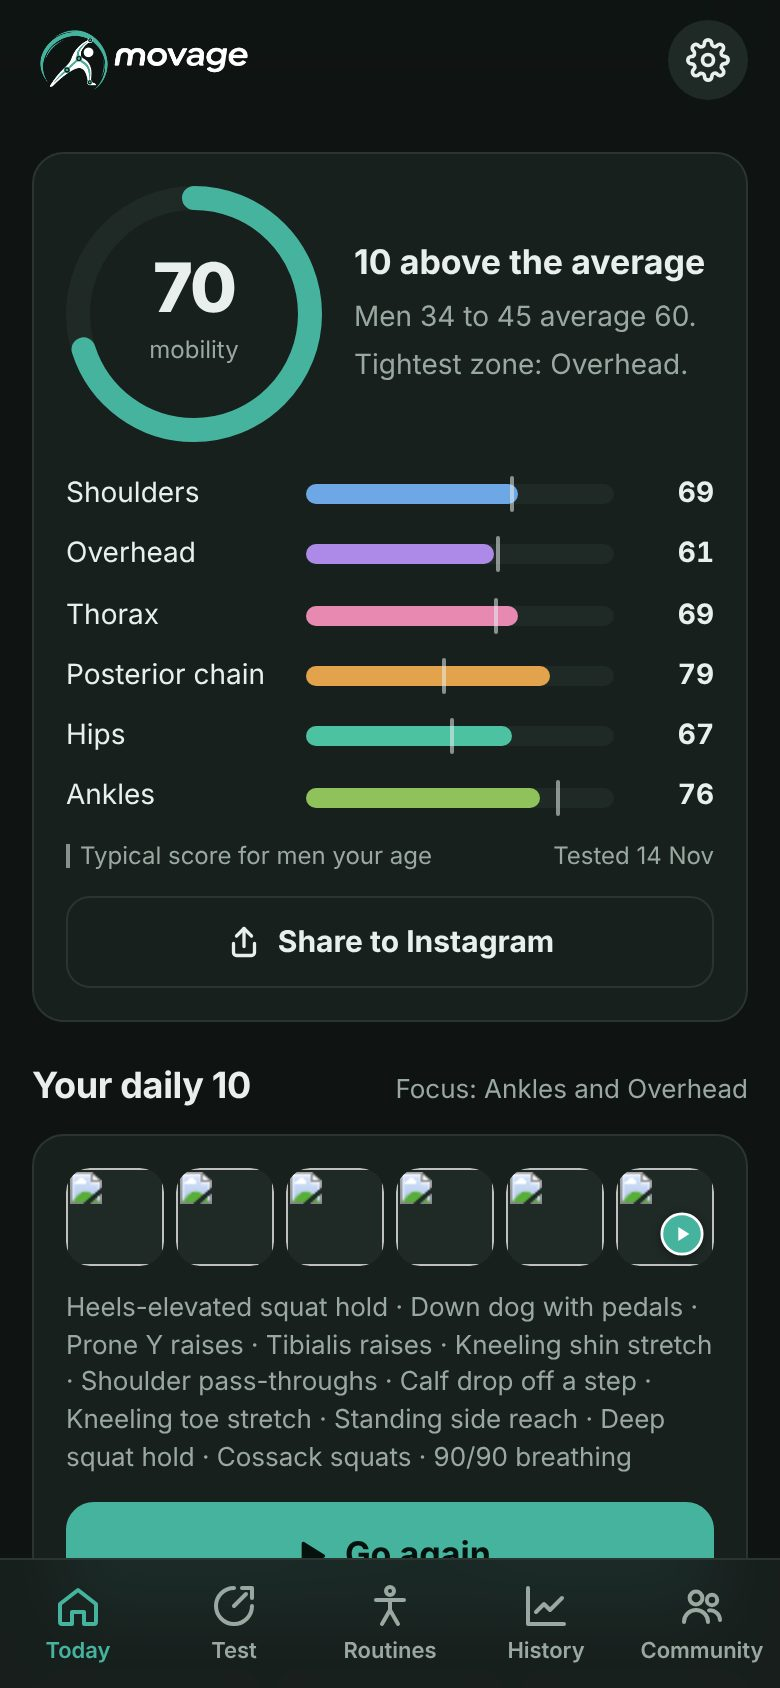
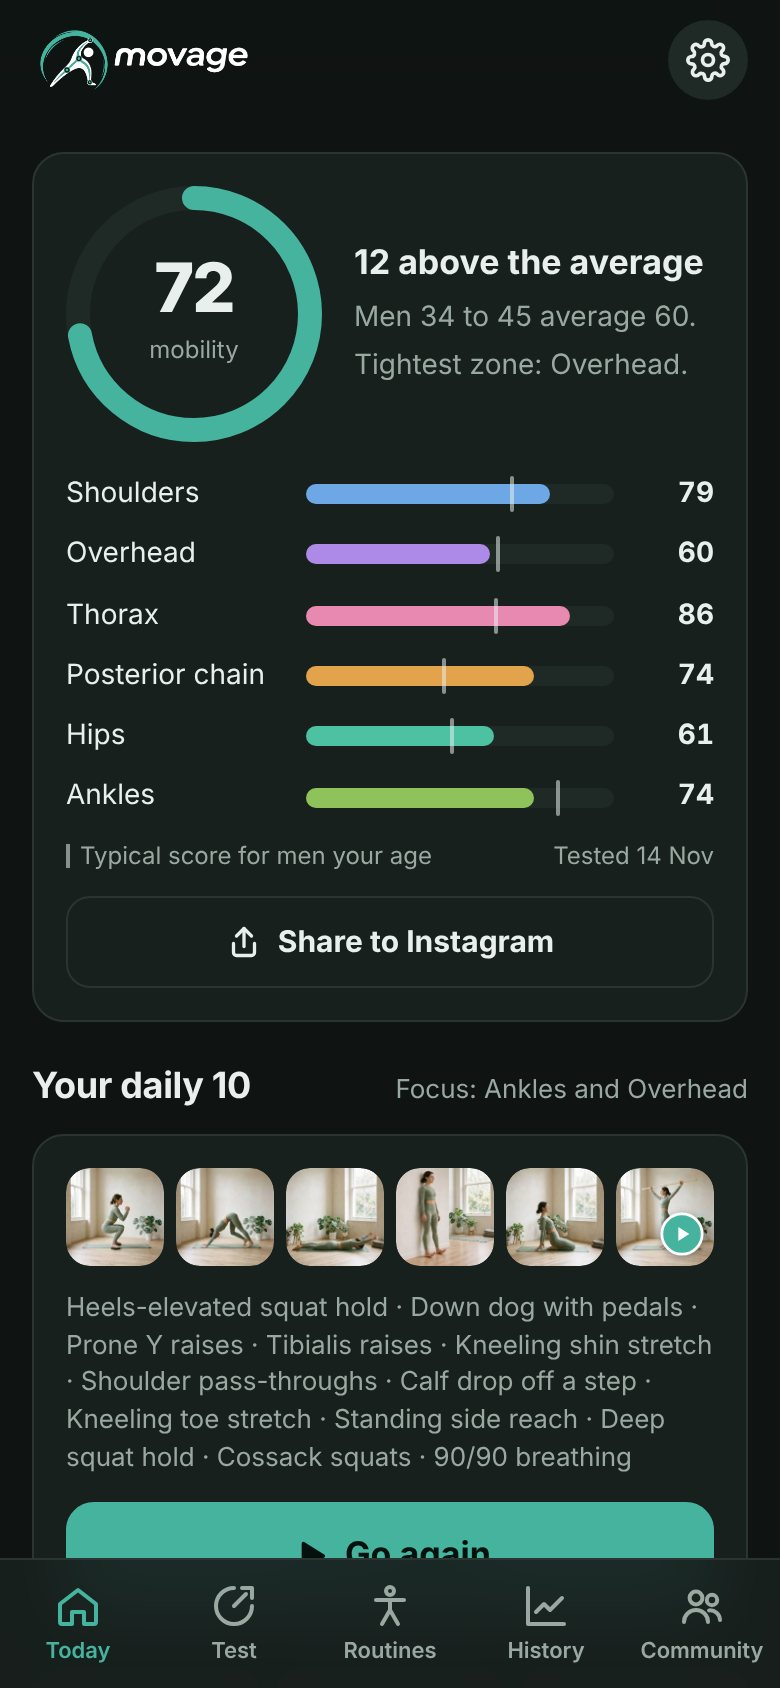
Show stretch photos in the Today screenshot
Claude-Session: https://claude.ai/code/session_01LbcmbnbV16J8dmj9bBC9JB

diff --git a/index.html b/index.html
@@ -148,7 +148,7 @@
     </div>
     <div class="screens">
       <figure class="screen" style="margin:0">
-        <div class="phone"><img src="assets/screen-home.jpg" alt="Movage Today screen showing a mobility score of 75 with zone scores" width="780" height="1688" loading="lazy"></div>
+        <div class="phone"><img src="assets/screen-home.jpg" alt="Movage Today screen showing a mobility score of 72 with zone scores and the daily 10 routine" width="780" height="1688" loading="lazy"></div>
         <figcaption><h3>Today</h3><p>Your score, your tightest zone and the routine picked for you.</p></figcaption>
       </figure>
       <figure class="screen" style="margin:0">
